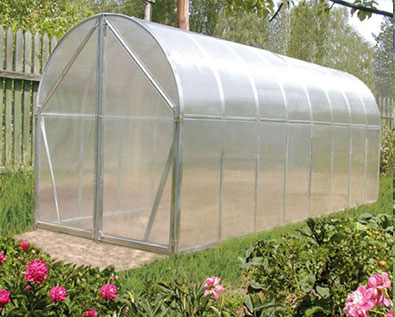
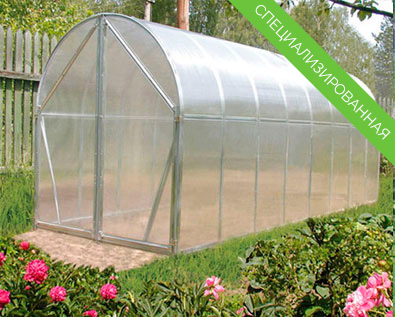
update greenhouses images

diff --git a/index.html b/index.html
@@ -343,7 +343,7 @@
             <div class="image_grid portfolio_4col">
               <ul class="portfolio_list da-thumbs">
               <!-- Если нужно будет картинку без надписи, достаточно убрать суффикс _new -->
-                <li> <img src="images/portfolio/mitlayder_new.jpg" alt="">
+                <li> <img src="images/portfolio/mitlayder.jpg" alt="">
                   <article class="da-animate da-slideFromRight" style="display: block;"> <a class="fancybox photo-icon" href="#mitlayder"> <i class="fa fa-search-plus"></i>
                     <h5>теплица по методу<br/>
                       <span>Митлайдер</span></h5>
@@ -372,7 +372,7 @@
             <div class="image_grid portfolio_4col">
               <ul class="portfolio_list da-thumbs">
               <!-- Если нужно будет картинку без надписи, достаточно убрать суффикс _new -->
-                <li> <img src="images/portfolio/gribok_new.jpg" alt="">
+                <li> <img src="images/portfolio/gribok.jpg" alt="">
                   <article class="da-animate da-slideFromRight" style="display: block;"> <a class="fancybox photo-icon" href="#gribok"> <i class="fa fa-search-plus"></i>
                     <h5>теплица каркас<br/>
                       <span>Грибок</span></h5>
